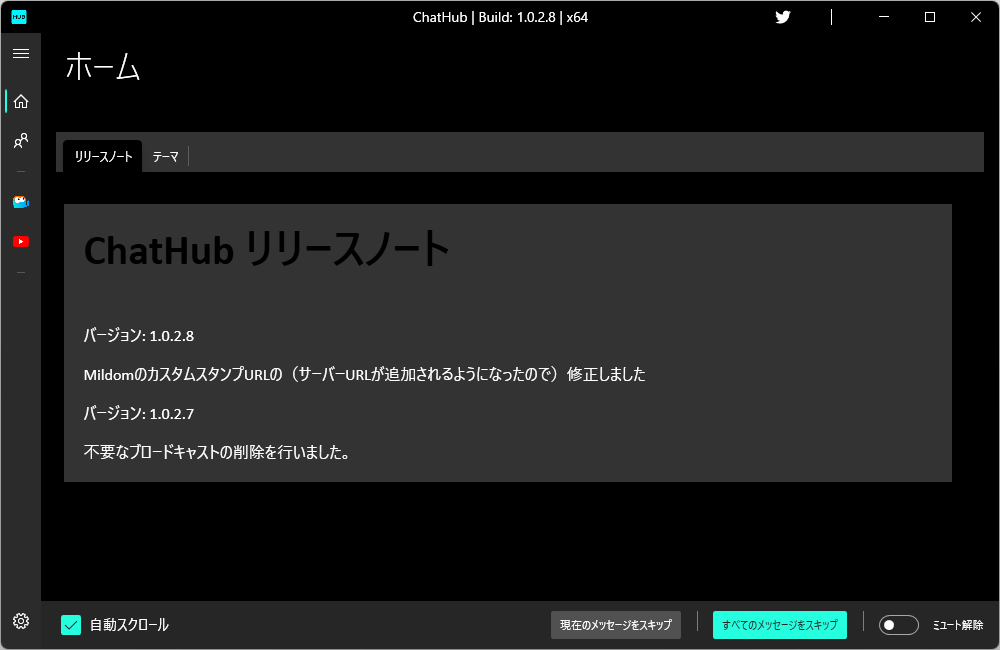
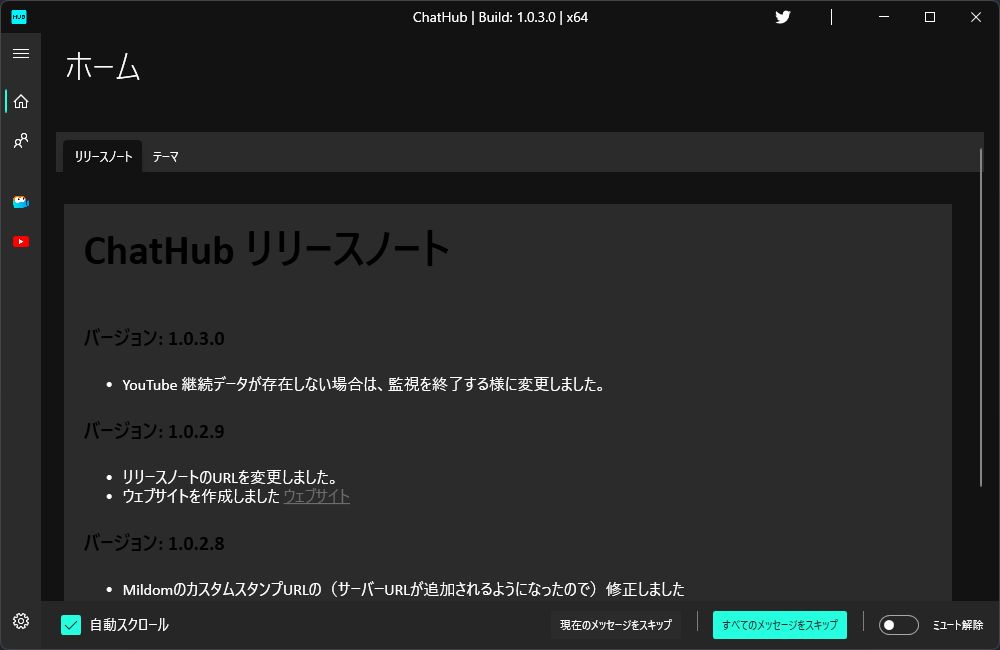
スクリーンショットを最新版に変更しました

diff --git a/docs/index.html b/docs/index.html
@@ -1,1 +1,1 @@
-<!DOCTYPE html><html lang="en"><head><meta charset="utf-8"><meta http-equiv="X-UA-Compatible" content="IE=edge"><meta name="viewport" content="width=device-width, initial-scale=1.0"><title>ChatHub Foundation - Made by Coreizer</title><link href="/favicon.9fca3f8e.ico" rel="icon"><link href="/index.86c12114.css" rel="stylesheet"><link rel="preconnect" href="https://fonts.googleapis.com"><link rel="preconnect" href="https://fonts.gstatic.com" crossorigin><link href="https://fonts.googleapis.com/css2?family=M+PLUS+1:wght@200;500;800&family=Noto+Sans+JP:wght@100;500;700&display=swap" rel="stylesheet"></head><body class="bg-[#121212] font-body overflow-hidden"> <div class="bg-neutral-900 fixed inset-0 loading z-[9999]"> <div class="flex flex-col h-screen items-center justify-center w-full"> <img src="/chathub-logo.c607fb97.png" alt="ロゴ" class="h-32"> <h4 class="pt-4 text-neutral-200 text-xl"> <span class="font-black">ChatHub</span> <span>Foundation</span> </h4> </div> </div> <header class="bg-neutral-800 duration-200 fixed header left-0 right-0 top-0 w-full z-50"> <div class="container mx-auto"> <div class="gap-10 grid grid-cols-2 items-center justify-between py-6"> <div class="block justify-self-start"> <div class="flex flex-row items-center"> <img src="/chathub-logo.c607fb97.png" alt="ウェブサイトのロゴ" class="block w-[3.2rem]"> <p class="ml-2 text-neutral-200"><span class="font-bold">ChatHub</span> Foundation</p> </div> </div> <nav class="justify-self-end list-none"> <li> <a href="#" class="bg-bf2042 border border-neutral-500 border-opacity-25 duration-150 hover:bg-bf2042/80 inline-block px-6 py-2 rounded-md shadow text-sm"> <span class="font-black">ChatHub</span> <span>をダウンロード</span> </a> </li> </nav> </div> </div> </header> <main role="main"> <section class="py-16 section-hero"> <div class="container mx-auto"> <div class="mb-24 text-center"> <div class="space-y-8"> <h1 class="font-bold text-5xl text-neutral-200">現代のための連携アプリケーション</h1> <p class="text-neutral-400 tracking-tight">YouTube, Mildom等の放送プラットフォームのコメントを 棒読みちゃん に専用プラグインと連携して、チャットメッセージを読み上げるアプリケーション</p> </div> <div class="mt-24"> <a class="bg-bf2042 border border-neutral-500 border-opacity-25 duration-150 hover:bg-bf2042/80 inline-block px-6 py-2 rounded-md shadow" href=""> <span class="flex group-hover:text-neutral-200 items-center justify-center space-x-2 text-neutral-800"> <ion-icon name="chevron-forward-outline"></ion-icon> <span class="font-medium"><span class="font-black">ChatHub</span> をダウンロード</span> </span> </a> <p class="pt-4 text-neutral-500">※現在はリリースしていません</p> </div> </div> <img class="mx-auto shadow-lg" src="/home.82b3faa7.png" alt=""> </div> </section> <section class="bg-neutral-900 py-16 section-featured"> <div class="container mx-auto"> <div class="mb-16"> <div class="flex flex-row items-center justify-center md:justify-start space-x-5"> <ion-icon name="hammer-outline" class="text-3xl text-bf2042"></ion-icon> <h2 class="font-semibold text-2xl text-neutral-100">複雑な設定が不要です</h2> </div> </div> <div class="gap-10 grid grid-cols-2"> <video autoplay muted loop class="mx-auto shadow-2xl"> <source src="/settings.b2d32da5.mp4" type="video/mp4"> </video> <div class="flex items-center justify-center"> <div> <ul class="space-y-5"> <li class="flex items-center text-neutral-200 text-xl"> <ion-icon name="checkbox-outline" class="text-bf2042"></ion-icon> <span class="pl-2">チャンネルURLを設定する</span> </li> <li class="flex items-center text-neutral-200 text-xl"> <ion-icon name="checkbox-outline" class="text-bf2042"></ion-icon> <span class="pl-2">有効化にチェックをいれる</span> </li> <li class="flex items-center text-neutral-200 text-xl"> <ion-icon name="checkbox-outline" class="text-bf2042"></ion-icon> <span class="pl-2">設定を適応するクリックする</span> </li> </ul> <p class="pt-12 text-neutral-200 text-xl">複雑な設定を一切必要とせず、導入後直ぐに使いこなすことが可能です。</p> </div> </div> </div> </div> </section> <section class="py-16 section-supports"> <div class="container mx-auto"> <div class="mb-16"> <div class="flex flex-row items-center space-x-5"> <ion-icon name="earth-outline" class="text-3xl text-bf2042"></ion-icon> <div class="space-y-3"> <h2 class="font-semibold text-2xl text-neutral-200">対応しているプラットフォーム</h2> <p class="text-neutral-300">2022年03年11日 更新</p> </div> </div> </div> <div class="gap-10 grid grid-cols-1 items-center md:grid-cols-3 xl:grid-cols-5"> <div class="bg-neutral-800 h-full p-8 rounded-md shadow-2xl w-full"> <div class="flex flex-col items-center"> <div class="pb-12 text-center"> <img class="h-12 mx-auto" src="/logo-mildom.6cc0b880.png" alt="ミルダム"> <h4 class="mt-4 text-neutral-200 text-xl">ミルダム</h4> </div> <div class="text-left w-full"> <ul class="space-y-3 text-neutral-200"> <li>メッセージの読み上げ</li> <li>入室・退出の読み上げ</li> <li>送られたギフトを集約して読み上げ</li> <li>カスタム・スタンプ表示</li> <li>絵文字表示</li> </ul> </div> </div> </div> <div class="bg-neutral-800 h-full p-8 rounded-md shadow-2xl w-full"> <div class="flex flex-col items-center"> <div class="pb-12 text-center"> <img class="h-12 mx-auto" src="/logo-youtube.8123b8b3.png" alt="YouTube"> <h4 class="mt-4 text-neutral-200 text-xl">YouTube</h4> </div> <div class="text-left w-full"> <ul class="space-y-3 text-neutral-200"> <li>スーパーチャットの読み上げ</li> <li>メンバーシップの読み上げ</li> <li>スーパーステッカーの読み上げ</li> <li>絵文字表示に対応</li> </ul> </div> </div> </div> </div> </div> </section> <section class="bg-neutral-900 py-16 section-screenshots"> <div class="container mx-auto"> <div class="mb-16"> <div class="flex flex-row items-center space-x-5"> <ion-icon name="images-outline" class="text-3xl text-bf2042"></ion-icon> <h2 class="font-semibold text-2xl text-neutral-200">スクリーンショット一覧</h2> </div> </div> <div class="gap-10 grid grid-cols-2"> <div class="overflow-hidden"> <a href="/home.82b3faa7.png" class="block duration-1000 glightbox hover:scale-110"> <img src="/home.82b3faa7.png" alt="ホーム"> </a> </div> <div class="overflow-hidden"> <a href="/livechat.051ffe78.png" class="block duration-1000 glightbox hover:scale-110"> <img src="/livechat.051ffe78.png" alt="ライブチャット"> </a> </div> <div class="overflow-hidden"> <a href="/settings.147e0f27.png" class="block duration-1000 glightbox hover:scale-110"> <img src="/settings.147e0f27.png" alt="設定"> </a> </div> <div class="overflow-hidden"> <a href="/settings-mildom.fe5cf12a.png" class="block duration-1000 glightbox hover:scale-110"> <img src="/settings-mildom.fe5cf12a.png" alt="ミルダムの設定"> </a> </div> <div class="overflow-hidden"> <a href="/settings-youtube.c70baadf.png" class="block duration-1000 glightbox hover:scale-110"> <img src="/settings-youtube.c70baadf.png" alt="YouTubeの設定"> </a> </div> </div> </div> </section> </main> <footer class="py-16"> <div class="container mx-auto"> <div class="flex items-center justify-between"> <p class="text-neutral-200">&copy; 2022 ChatHub Foundation.</p> <ul class="flex items-center space-x-6"> <li> <a href="https://twitter.com/coreizer" target="_blank" class="duration-100 hover:text-bf2042 text-neutral-200"> <ion-icon name="logo-twitter" class="text-2xl"></ion-icon> </a> </li> <li> <a href="https://www.youtube.com/channel/UCORVQDEEIYX2H0fUMlXy4_Q" target="_blank" class="duration-100 hover:text-bf2042 text-neutral-200"> <ion-icon name="logo-youtube" class="text-2xl"></ion-icon> </a> </li> </ul> </div> </div> </footer> </body><script type="module" src="/index.d2986351.js"></script><script src="https://unpkg.com/ionicons@5.5.2/dist/ionicons/ionicons.js"></script></html>
+<!DOCTYPE html><html lang="en"><head><meta charset="utf-8"><meta http-equiv="X-UA-Compatible" content="IE=edge"><meta name="viewport" content="width=device-width, initial-scale=1.0"><title>ChatHub Foundation - Made by Coreizer</title><link href="/favicon.9fca3f8e.ico" rel="icon"><link href="/index.86c12114.css" rel="stylesheet"><link rel="preconnect" href="https://fonts.googleapis.com"><link rel="preconnect" href="https://fonts.gstatic.com" crossorigin><link href="https://fonts.googleapis.com/css2?family=M+PLUS+1:wght@200;500;800&family=Noto+Sans+JP:wght@100;500;700&display=swap" rel="stylesheet"></head><body class="bg-[#121212] font-body overflow-hidden"> <div class="bg-neutral-900 fixed inset-0 loading z-[9999]"> <div class="flex flex-col h-screen items-center justify-center w-full"> <img src="/chathub-logo.c607fb97.png" alt="ロゴ" class="h-32"> <h4 class="pt-4 text-neutral-200 text-xl"> <span class="font-black">ChatHub</span> <span>Foundation</span> </h4> </div> </div> <header class="bg-neutral-800 duration-200 fixed header left-0 right-0 top-0 w-full z-50"> <div class="container mx-auto"> <div class="gap-10 grid grid-cols-2 items-center justify-between py-6"> <div class="block justify-self-start"> <div class="flex flex-row items-center"> <img src="/chathub-logo.c607fb97.png" alt="ウェブサイトのロゴ" class="block w-[3.2rem]"> <p class="ml-2 text-neutral-200"><span class="font-bold">ChatHub</span> Foundation</p> </div> </div> <nav class="justify-self-end list-none"> <li> <a href="#" class="bg-bf2042 border border-neutral-500 border-opacity-25 duration-150 hover:bg-bf2042/80 inline-block px-6 py-2 rounded-md shadow text-sm"> <span class="font-black">ChatHub</span> <span>をダウンロード</span> </a> </li> </nav> </div> </div> </header> <main role="main"> <section class="py-16 section-hero"> <div class="container mx-auto"> <div class="mb-24 text-center"> <div class="space-y-8"> <h1 class="font-bold text-5xl text-neutral-200">現代のための連携アプリケーション</h1> <p class="text-neutral-400 tracking-tight">YouTube, Mildom等の放送プラットフォームのコメントを 棒読みちゃん に専用プラグインと連携して、チャットメッセージを読み上げるアプリケーション</p> </div> <div class="mt-24"> <a class="bg-bf2042 border border-neutral-500 border-opacity-25 duration-150 hover:bg-bf2042/80 inline-block px-6 py-2 rounded-md shadow" href=""> <span class="flex group-hover:text-neutral-200 items-center justify-center space-x-2 text-neutral-800"> <ion-icon name="chevron-forward-outline"></ion-icon> <span class="font-medium"><span class="font-black">ChatHub</span> をダウンロード</span> </span> </a> <p class="pt-4 text-neutral-500">※現在はリリースしていません</p> </div> </div> <img class="mx-auto shadow-lg" src="/home.173f610d.png" alt=""> </div> </section> <section class="bg-neutral-900 py-16 section-featured"> <div class="container mx-auto"> <div class="mb-16"> <div class="flex flex-row items-center justify-center md:justify-start space-x-5"> <ion-icon name="hammer-outline" class="text-3xl text-bf2042"></ion-icon> <h2 class="font-semibold text-2xl text-neutral-100">複雑な設定が不要です</h2> </div> </div> <div class="gap-10 grid grid-cols-2"> <video autoplay muted loop class="mx-auto shadow-2xl"> <source src="/settings.b2d32da5.mp4" type="video/mp4"> </video> <div class="flex items-center justify-center"> <div> <ul class="space-y-5"> <li class="flex items-center text-neutral-200 text-xl"> <ion-icon name="checkbox-outline" class="text-bf2042"></ion-icon> <span class="pl-2">チャンネルURLを設定する</span> </li> <li class="flex items-center text-neutral-200 text-xl"> <ion-icon name="checkbox-outline" class="text-bf2042"></ion-icon> <span class="pl-2">有効化にチェックをいれる</span> </li> <li class="flex items-center text-neutral-200 text-xl"> <ion-icon name="checkbox-outline" class="text-bf2042"></ion-icon> <span class="pl-2">設定を適応するクリックする</span> </li> </ul> <p class="pt-12 text-neutral-200 text-xl">複雑な設定を一切必要とせず、導入後直ぐに使いこなすことが可能です。</p> </div> </div> </div> </div> </section> <section class="py-16 section-supports"> <div class="container mx-auto"> <div class="mb-16"> <div class="flex flex-row items-center space-x-5"> <ion-icon name="earth-outline" class="text-3xl text-bf2042"></ion-icon> <div class="space-y-3"> <h2 class="font-semibold text-2xl text-neutral-200">対応しているプラットフォーム</h2> <p class="text-neutral-300">2022年03年11日 更新</p> </div> </div> </div> <div class="gap-10 grid grid-cols-1 items-center md:grid-cols-3 xl:grid-cols-5"> <div class="bg-neutral-800 h-full p-8 rounded-md shadow-2xl w-full"> <div class="flex flex-col items-center"> <div class="pb-12 text-center"> <img class="h-12 mx-auto" src="/logo-mildom.6cc0b880.png" alt="ミルダム"> <h4 class="mt-4 text-neutral-200 text-xl">ミルダム</h4> </div> <div class="text-left w-full"> <ul class="space-y-3 text-neutral-200"> <li>メッセージの読み上げ</li> <li>入室・退出の読み上げ</li> <li>送られたギフトを集約して読み上げ</li> <li>カスタム・スタンプ表示</li> <li>絵文字表示</li> </ul> </div> </div> </div> <div class="bg-neutral-800 h-full p-8 rounded-md shadow-2xl w-full"> <div class="flex flex-col items-center"> <div class="pb-12 text-center"> <img class="h-12 mx-auto" src="/logo-youtube.8123b8b3.png" alt="YouTube"> <h4 class="mt-4 text-neutral-200 text-xl">YouTube</h4> </div> <div class="text-left w-full"> <ul class="space-y-3 text-neutral-200"> <li>スーパーチャットの読み上げ</li> <li>メンバーシップの読み上げ</li> <li>スーパーステッカーの読み上げ</li> <li>絵文字表示に対応</li> </ul> </div> </div> </div> </div> </div> </section> <section class="bg-neutral-900 py-16 section-screenshots"> <div class="container mx-auto"> <div class="mb-16"> <div class="flex flex-row items-center space-x-5"> <ion-icon name="images-outline" class="text-3xl text-bf2042"></ion-icon> <h2 class="font-semibold text-2xl text-neutral-200">スクリーンショット一覧</h2> </div> </div> <div class="gap-10 grid grid-cols-2"> <div class="overflow-hidden"> <a href="/home.173f610d.png" class="block duration-1000 glightbox hover:scale-110"> <img src="/home.173f610d.png" alt="ホーム"> </a> </div> <div class="overflow-hidden"> <a href="/livechat.53c27058.png" class="block duration-1000 glightbox hover:scale-110"> <img src="/livechat.53c27058.png" alt="ライブチャット"> </a> </div> <div class="overflow-hidden"> <a href="/settings.39dd1f00.png" class="block duration-1000 glightbox hover:scale-110"> <img src="/settings.39dd1f00.png" alt="設定"> </a> </div> <div class="overflow-hidden"> <a href="/settings-mildom.5df9c340.png" class="block duration-1000 glightbox hover:scale-110"> <img src="/settings-mildom.5df9c340.png" alt="ミルダムの設定"> </a> </div> <div class="overflow-hidden"> <a href="/settings-youtube.65260690.png" class="block duration-1000 glightbox hover:scale-110"> <img src="/settings-youtube.65260690.png" alt="YouTubeの設定"> </a> </div> </div> </div> </section> </main> <footer class="py-16"> <div class="container mx-auto"> <div class="flex items-center justify-between"> <p class="text-neutral-200">&copy; 2022 ChatHub Foundation.</p> <ul class="flex items-center space-x-6"> <li> <a href="https://twitter.com/coreizer" target="_blank" class="duration-100 hover:text-bf2042 text-neutral-200"> <ion-icon name="logo-twitter" class="text-2xl"></ion-icon> </a> </li> <li> <a href="https://www.youtube.com/channel/UCORVQDEEIYX2H0fUMlXy4_Q" target="_blank" class="duration-100 hover:text-bf2042 text-neutral-200"> <ion-icon name="logo-youtube" class="text-2xl"></ion-icon> </a> </li> </ul> </div> </div> </footer> </body><script type="module" src="/index.d2986351.js"></script><script src="https://unpkg.com/ionicons@5.5.2/dist/ionicons/ionicons.js"></script></html>

diff --git a/src/js/app.js b/src/js/app.js
@@ -16,7 +16,7 @@ const headerRoom = new Headroom(globalHeader, {
 // initialise
 headerRoom.init();
 
-// Loading
+// Splash Loading
 $('.loading').delay(500).fadeOut(500, function () {
   $('body').removeClass('overflow-hidden')
 });
